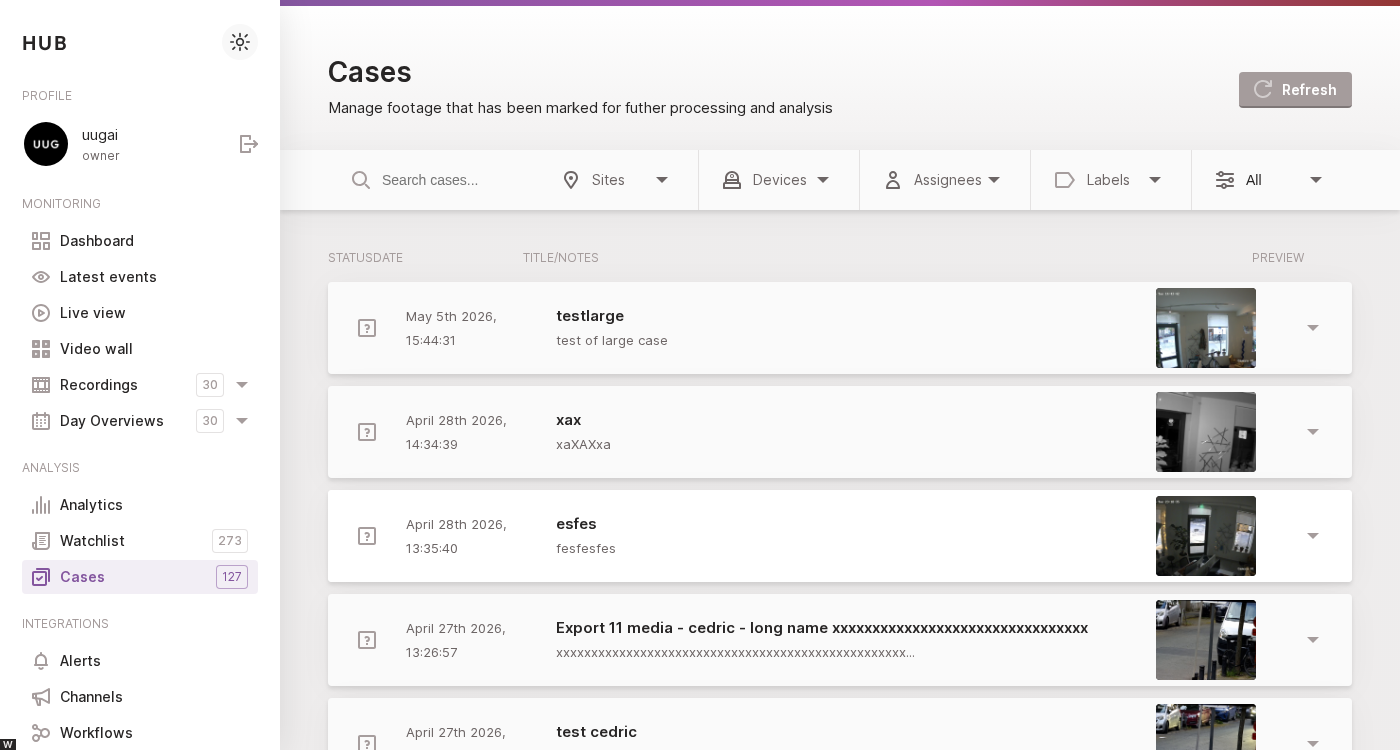
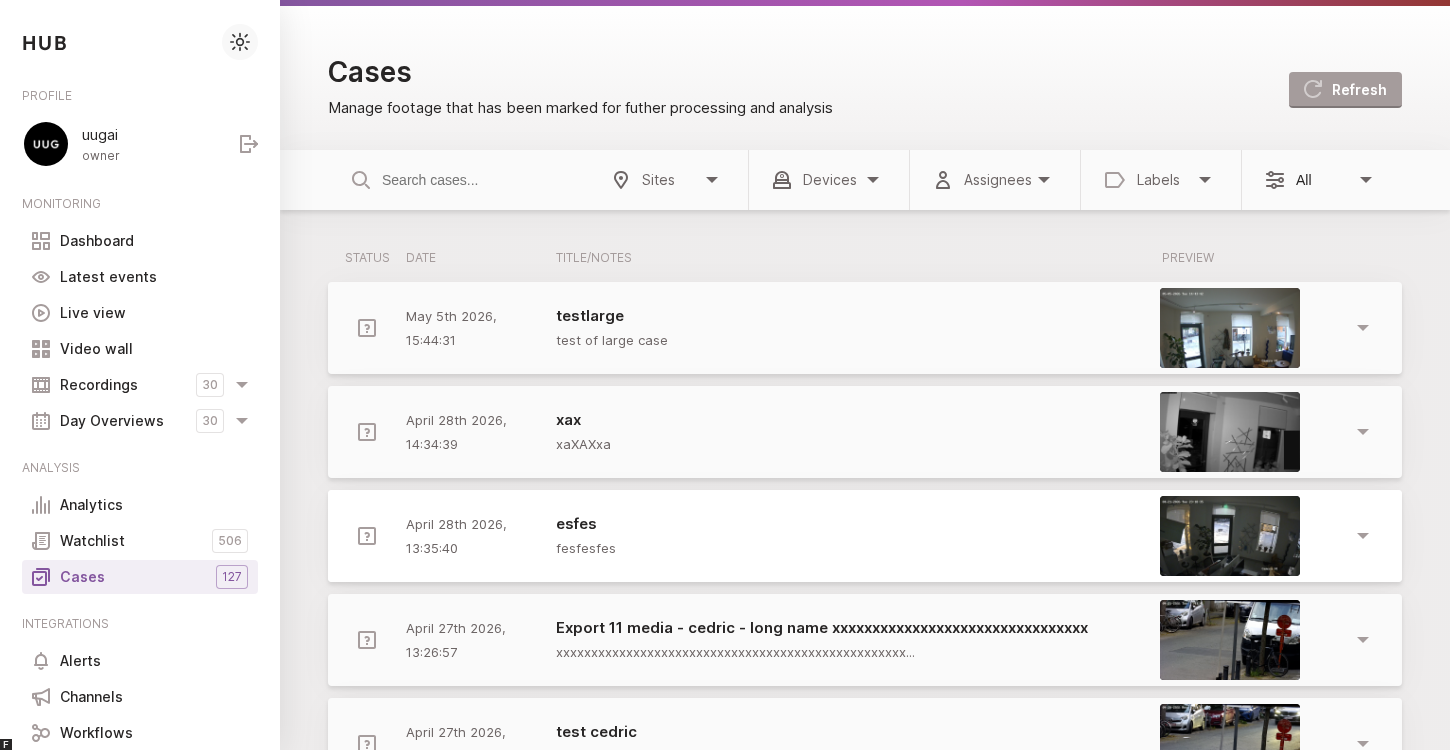
Update case images and adjust screenshot dimensions for consistency

diff --git a/playwright/tests/utils/chrome.ts b/playwright/tests/utils/chrome.ts
@@ -8,10 +8,19 @@ import { Page } from '@playwright/test';
  *
  * Safe to call multiple times — the injected style block is idempotent and
  * survives client-side navigation because it's added to the document head.
+ *
+ * Uses `page.evaluate` rather than `page.addStyleTag` because the latter
+ * waits for the page's load state, which can hang indefinitely on Hub pages
+ * that keep long-poll connections open.
  */
 export async function hideEnvironmentBar(page: Page): Promise<void> {
-  await page.addStyleTag({
-    content: `.environment { display: none !important; }`,
+  await page.evaluate(() => {
+    const id = '__docs-screenshot-style';
+    if (document.getElementById(id)) return;
+    const style = document.createElement('style');
+    style.id = id;
+    style.textContent = `.environment { display: none !important; }`;
+    document.head.appendChild(style);
   });
 }
 

diff --git a/playwright/tests/utils/screenshots.ts b/playwright/tests/utils/screenshots.ts
@@ -22,7 +22,7 @@ export function screenshotDir(): string {
  * the viewport at this size so the resulting images are visually consistent
  * across pages.
  */
-export const SCREENSHOT_WIDTH = 1400;
+export const SCREENSHOT_WIDTH = 1450;
 export const SCREENSHOT_HEIGHT = 750;
 
 /**

diff --git a/playwright/playwright.config.ts b/playwright/playwright.config.ts
@@ -17,7 +17,7 @@ export default defineConfig({
   use: {
     baseURL,
     headless: true,
-    viewport: { width: 1400, height: 750 },
+    viewport: { width: 1450, height: 750 },
     deviceScaleFactor: 2,
     ignoreHTTPSErrors: true,
     actionTimeout: 15_000,

diff --git a/app/content/docs/hub/cases/index.md b/app/content/docs/hub/cases/index.md
@@ -21,9 +21,27 @@ Cases are the mechanism in Hub to trigger this archiving process. Once a case is
 
 > **Note:** The current archiving feature is designed for individual recordings only. It is not suitable for bulk exports or archiving large volumes of data (e.g. terabytes). We are aware of this limitation and are actively working on a solution to support large-scale archiving and export in a future release.
 
-{{< figure src="create-task.png" alt="By creating a case, the recording is copied to the archive storage provider in Vault." caption="By creating a case, the recording is copied to the archive storage provider in Vault." class="stretch">}}
+## Introduction 
 
-## Creating the archive storage provider and account
+The cases page is reachable from the main sidebar, under **Cases**. It
+lists every case in your account together with the recordings attached to it,
+the assignee, and any labels.
+
+{{< figure src="hub-cases-list.png" alt="The cases overview lists every case in your account." caption="The cases overview lists every case in your account." class="stretch">}}
+
+Selecting a row expands the case in place so you can review the attached
+recording, edit the title and description, manage labels, and add comments
+without leaving the page.
+
+{{< figure src="hub-cases-opened.png" alt="An expanded case shows the recording, details, and comments." caption="Open a case from the list to inspect the recording and follow up on it." class="stretch">}}
+
+There are different possibilities to create a case..
+
+## Configuration
+
+To start using cases some configurations need to be enabled on Vault and Hub, before you can use it.
+
+### Create archive storage provider in Vault
 
 To use cases and the archiving process, an additional storage provider must be created in Vault.
 
@@ -33,8 +51,7 @@ To set the archiving retention period, a new Vault account must be created, sinc
 
 {{< figure src="add-account.png" alt="Define a retention period in a new Vault account." caption="Define a retention period in a new Vault account." class="stretch">}}
 
-
-## Define archive provider and account in Hub
+### Define archive provider and account in Hub
 
 Now that your Vault instance is configured for archiving, you need to tell Hub where to archive recordings — which provider and account to use. Open the [`values.yaml`](https://github.com/kerberos-io/helm-charts/blob/main/charts/hub/values.yaml#L136-L142) and locate the `kerberosvault` section. Here you will find the `archive` property.
 
@@ -56,19 +73,3 @@ Now that your Vault instance is configured for archiving, you need to tell Hub w
         provider: "an-archive-provider"
 
 Set the `accesskey` and `secretkey` of your newly created Vault account, and specify the name of the archive `provider`. Then apply the updated helm chart.
-
-{{< figure src="tasks.png" alt="Your cases showing up on the cases page are now showing recordings from your archived storage provider." caption="Your cases showing up on the cases page are now showing recordings from your archived storage provider." class="stretch">}}
-
-## The cases overview
-
-The cases overview is reachable from the main sidebar, under **Cases**. It
-lists every case in your account together with the recordings attached to it,
-the assignee, and any labels.
-
-{{< figure src="hub-cases-list.png" alt="The cases overview lists every case in your account." caption="The cases overview lists every case in your account." class="stretch">}}
-
-Selecting a row expands the case in place so you can review the attached
-recording, edit the title and description, manage labels, and add comments
-without leaving the page.
-
-{{< figure src="hub-cases-opened.png" alt="An expanded case shows the recording, details, and comments." caption="Open a case from the list to inspect the recording and follow up on it." class="stretch">}}
